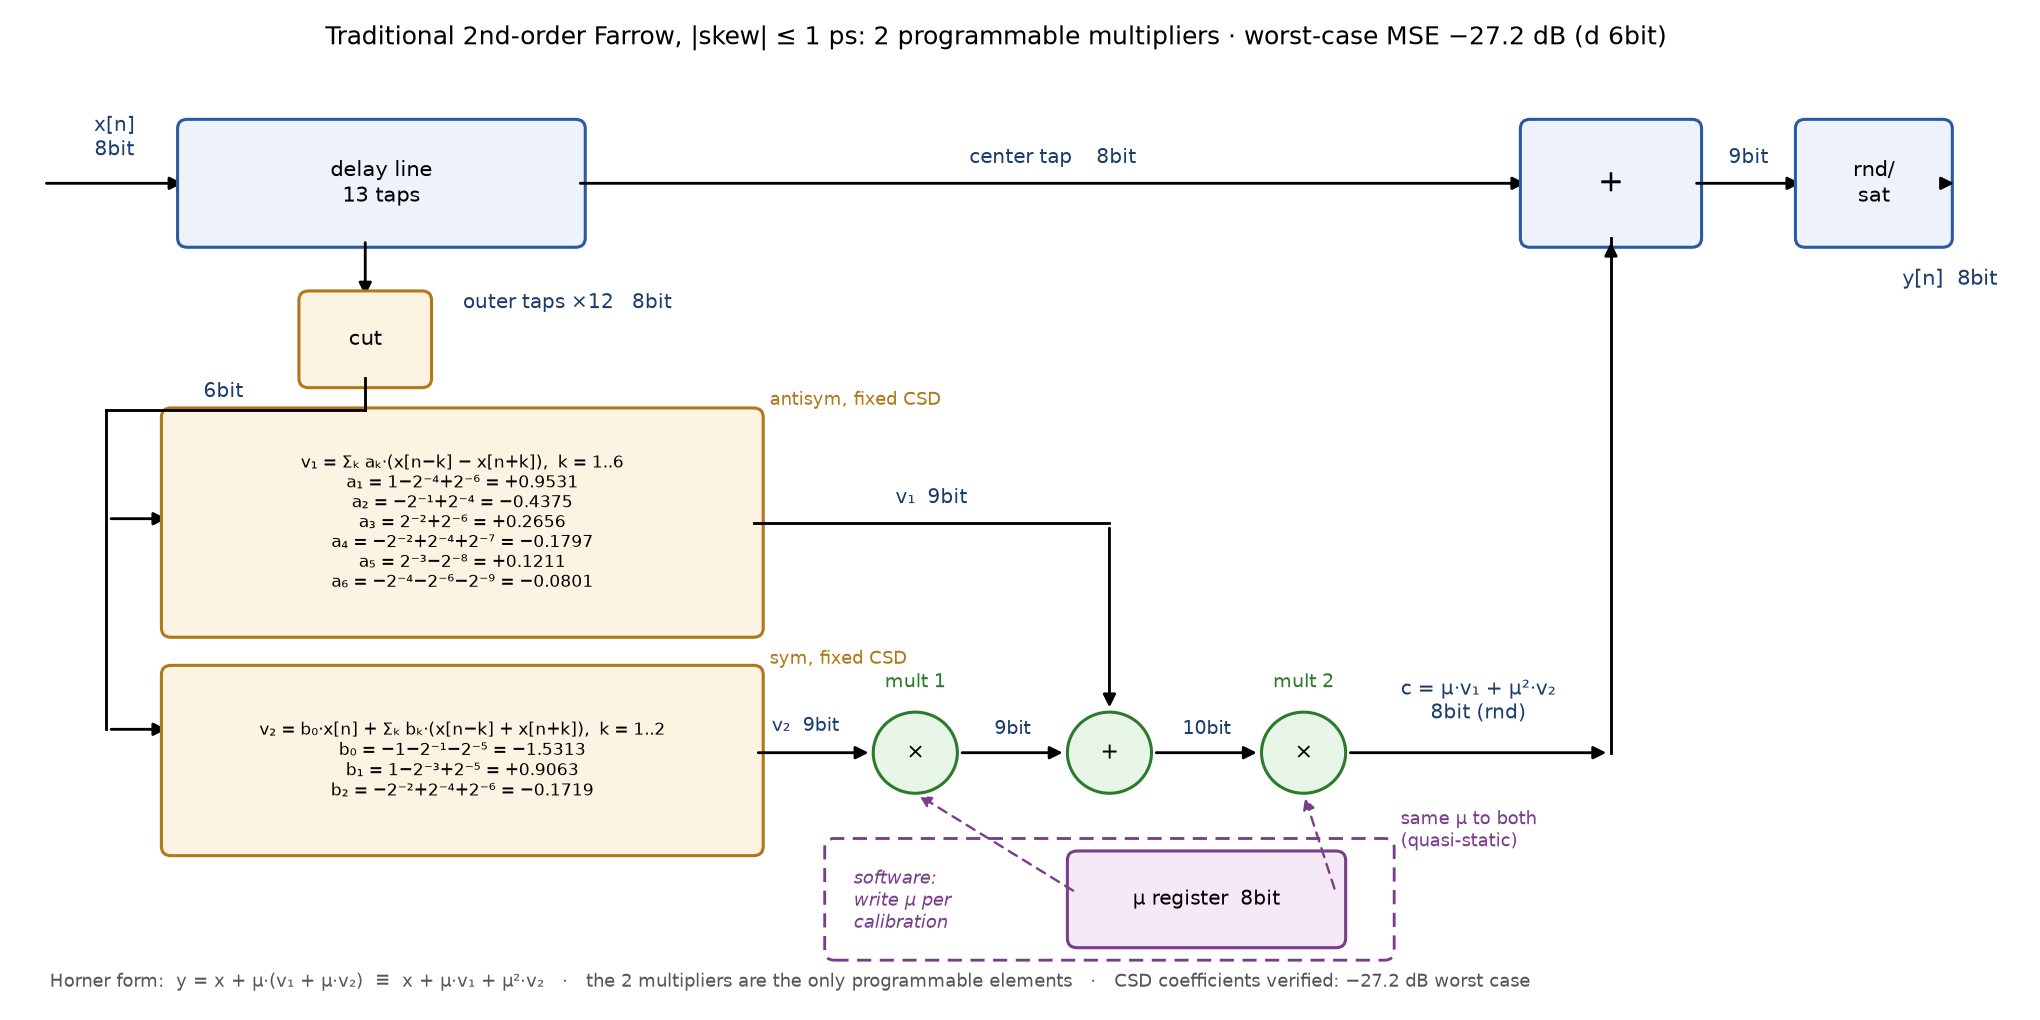
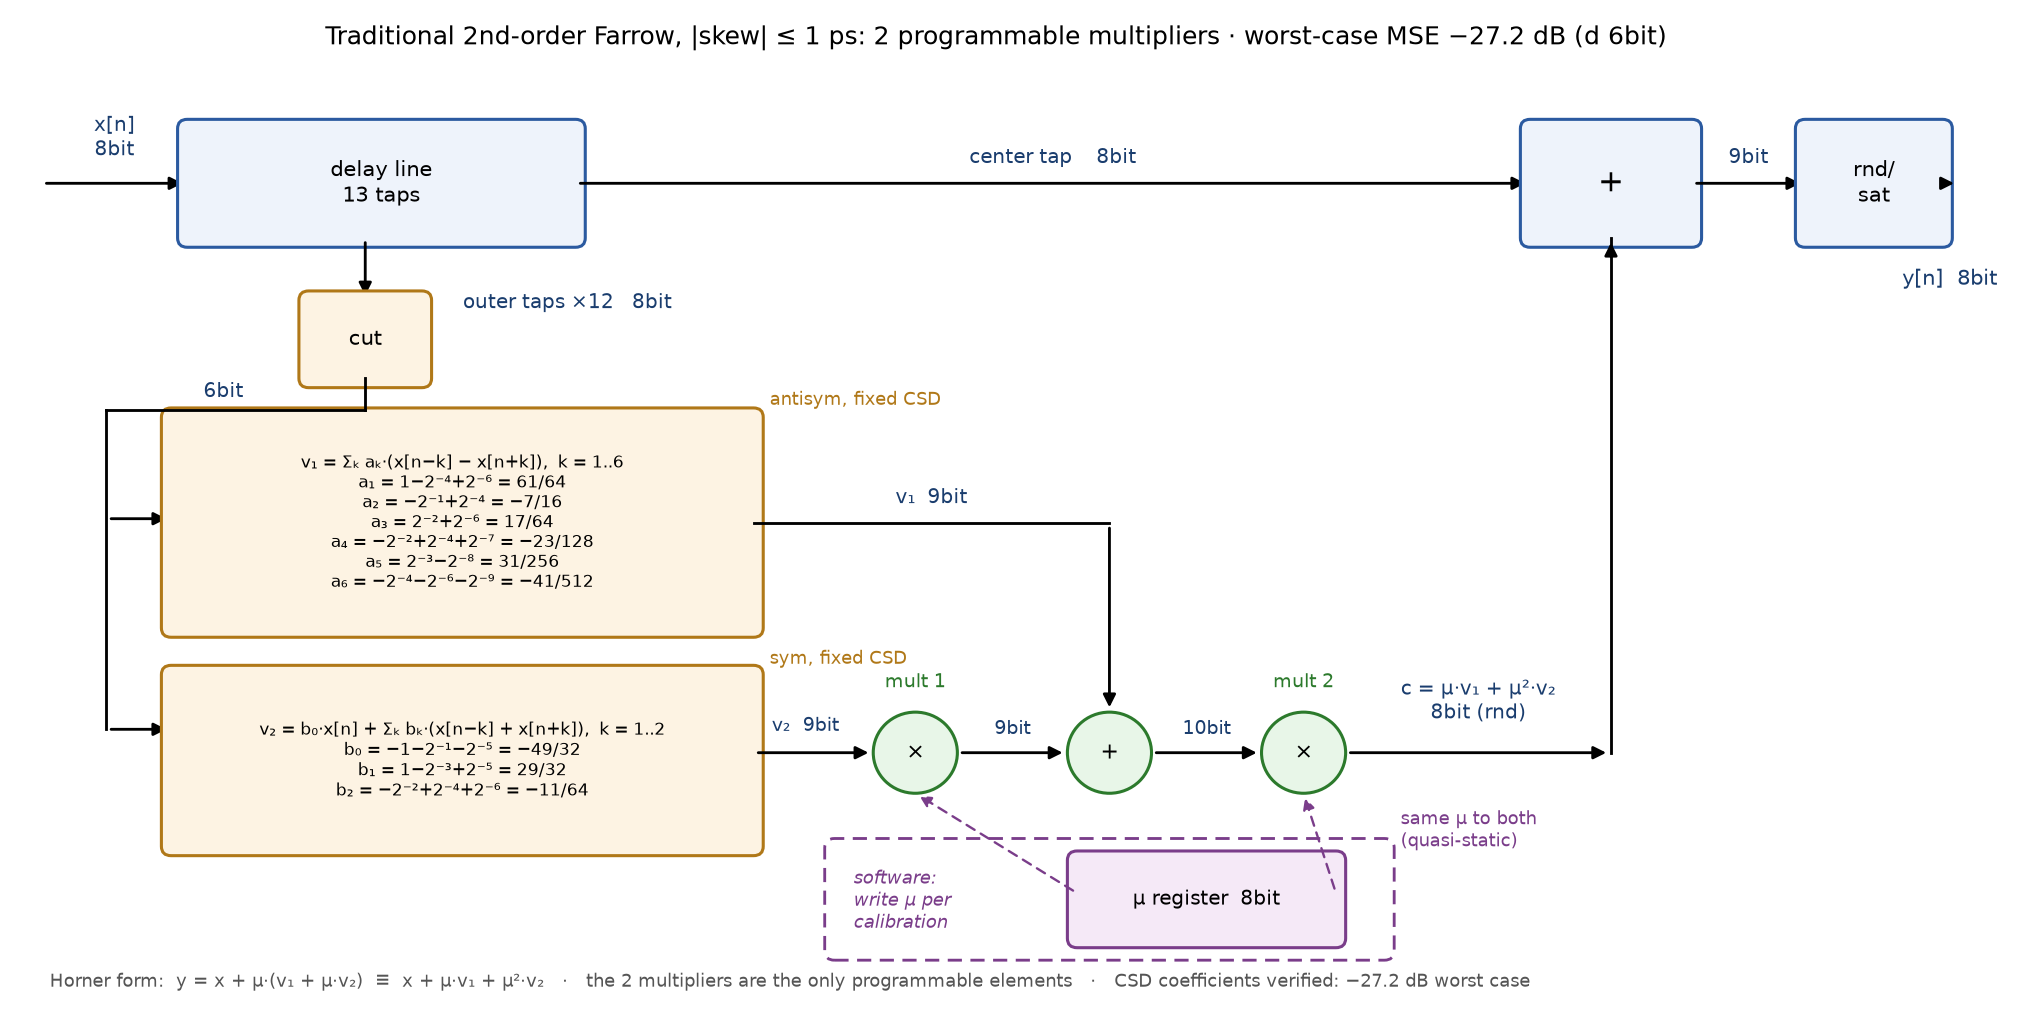
Farrow diagram: express coefficient values as exact fractions
Claude-Session: https://claude.ai/code/session_01UbEyxzdQC9DticNgWAgSg7

Changed region(s): [[0.1544, 0.4559, 0.2779, 0.5775], [0.1544, 0.7294, 0.3088, 0.7902]]

diff --git a/skew-precomp/make_blockdiagram_farrow.py b/skew-precomp/make_blockdiagram_farrow.py
@@ -61,19 +61,19 @@ arrow((0.5, 1.7), (0.9, 1.7))
 # ---------------- fixed subfilters with expanded CSD coefficients ------
 box(0.9, 2.35, 3.6, 1.35,
     "v₁ = Σₖ aₖ·(x[n−k] − x[n+k]),  k = 1..6\n"
-    "a₁ = 1−2⁻⁴+2⁻⁶ = +0.9531\n"
-    "a₂ = −2⁻¹+2⁻⁴ = −0.4375\n"
-    "a₃ = 2⁻²+2⁻⁶ = +0.2656\n"
-    "a₄ = −2⁻²+2⁻⁴+2⁻⁷ = −0.1797\n"
-    "a₅ = 2⁻³−2⁻⁸ = +0.1211\n"
-    "a₆ = −2⁻⁴−2⁻⁶−2⁻⁹ = −0.0801",
+    "a₁ = 1−2⁻⁴+2⁻⁶ = 61/64\n"
+    "a₂ = −2⁻¹+2⁻⁴ = −7/16\n"
+    "a₃ = 2⁻²+2⁻⁶ = 17/64\n"
+    "a₄ = −2⁻²+2⁻⁴+2⁻⁷ = −23/128\n"
+    "a₅ = 2⁻³−2⁻⁸ = 31/256\n"
+    "a₆ = −2⁻⁴−2⁻⁶−2⁻⁹ = −41/512",
     fs=7.0, **ORANGE)
 ax.text(4.6, 3.78, "antisym, fixed CSD", fontsize=7.6, color="#b07818")
 box(0.9, 0.95, 3.6, 1.1,
     "v₂ = b₀·x[n] + Σₖ bₖ·(x[n−k] + x[n+k]),  k = 1..2\n"
-    "b₀ = −1−2⁻¹−2⁻⁵ = −1.5313\n"
-    "b₁ = 1−2⁻³+2⁻⁵ = +0.9063\n"
-    "b₂ = −2⁻²+2⁻⁴+2⁻⁶ = −0.1719",
+    "b₀ = −1−2⁻¹−2⁻⁵ = −49/32\n"
+    "b₁ = 1−2⁻³+2⁻⁵ = 29/32\n"
+    "b₂ = −2⁻²+2⁻⁴+2⁻⁶ = −11/64",
     fs=7.0, **ORANGE)
 ax.text(4.6, 2.12, "sym, fixed CSD", fontsize=7.6, color="#b07818")
 
